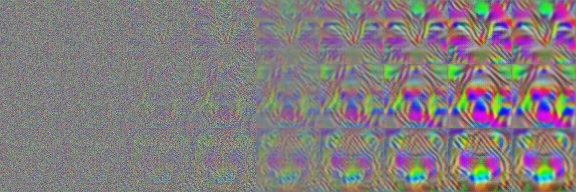
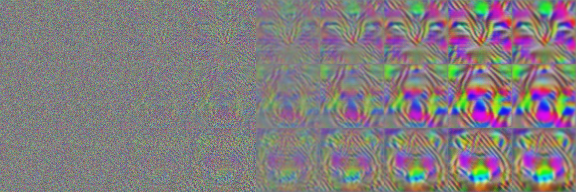
Flag anomalies on both sides and mark the blind spots

diff --git a/training/export.py b/training/export.py
@@ -237,6 +237,7 @@ def export_dream(cls_model, classes, device, steps=200, frames=8):
     but the result is still a psychedelic mess: knowing a cat is not drawing one.
     """
     torch.manual_seed(SEED)
+    rng = np.random.default_rng(SEED)
     # Snapshots spaced geometrically: most of the change happens in the first few steps.
     snap_at = (np.geomspace(1, steps, frames).round().astype(int) - 1).tolist()
     blur = torch.tensor([1., 2., 1.], device=device)
@@ -250,7 +251,7 @@ def export_dream(cls_model, classes, device, steps=200, frames=8):
         for step in range(steps):
             if step in snap_at:
                 shots.append(torch.sigmoid(p).detach())
-            dx, dy = np.random.randint(-2, 3, size=2)
+            dx, dy = rng.integers(-2, 3, size=2)
             x = torch.roll(torch.sigmoid(p), (int(dy), int(dx)), dims=(2, 3))  # jitter
             loss = -cls_model(x)[0, c]
             opt.zero_grad()
@@ -303,11 +304,26 @@ def export_latent_maps(loaded, map_cats, device):
 
 
 def export_anomaly(ae64, held_out, device):
-    """How badly ae_64 rebuilds normal (held-out) cats; anything far above this is 'not a cat'."""
+    """How well ae_64 rebuilds normal (held-out) cats. Returns the (low, high) flag thresholds.
+
+    Two-sided: an error above the 95th percentile means "I can't rebuild this, it's not a cat",
+    and one below the 1st percentile means "suspiciously easy": flat or blurry images
+    are simpler than any real cat face.
+    """
     errors = recon_errors(ae64, to_tensor(held_out, device)).cpu().numpy()
+    p1, p95, p99 = (float(np.percentile(errors, q)) for q in (1, 95, 99))
     write_json(OUT / "anomaly.json", {"model": "ae_64", "errors": rounded(errors, 2),
-                                      "p95": float(np.percentile(errors, 95)),
-                                      "p99": float(np.percentile(errors, 99))})
+                                      "p1": p1, "p95": p95, "p99": p99,
+                                      "flag": "error < p1 (too easy) or error > p95 (can't rebuild)"})
+    return p1, p95
+
+
+def verdict(error, low, high):
+    if error > high:
+        return "anomaly: can't rebuild it"
+    if error < low:
+        return "anomaly: suspiciously easy"
+    return "passes as a cat"
 
 
 def not_cats(held_out):
@@ -329,12 +345,22 @@ def not_cats(held_out):
     return list(images), np.stack([np.asarray(v, dtype=np.uint8) for v in images.values()])
 
 
-def export_not_cats(held_out, ae64, device):
+def export_not_cats(held_out, ae64, thresholds, device):
+    """The not-cats, ae_64's error on each, and its verdict.
+
+    Any that pass as a cat are the honest blind spot: an upside-down or colour-inverted
+    cat still has fur, eyes and a face-like layout, so ae_64 rebuilds it about as well
+    as a normal cat. Low reconstruction error doesn't mean "the right kind of cat".
+    """
     labels, images = not_cats(held_out)
     meta = save_sprite(images, OUT / "not_cats.png", cols=6)
-    errors = recon_errors(ae64, to_tensor(images, device)).cpu().numpy() if ae64 else None
-    write_json(OUT / "not_cats.json", {**meta, "labels": labels,
-                                       "ae_64_errors": None if errors is None else rounded(errors, 2)})
+    out = {**meta, "labels": labels}
+    if ae64 is not None:
+        errors = recon_errors(ae64, to_tensor(images, device)).cpu().numpy()
+        out["ae_64_errors"] = rounded(errors, 2)
+        out["verdicts"] = [verdict(e, *thresholds) for e in errors]
+        out["blind_spots"] = [l for l, v in zip(labels, out["verdicts"]) if v == "passes as a cat"]
+    write_json(OUT / "not_cats.json", out)
 
 
 def export_sparse_codes(loaded, held_out, device):
@@ -394,6 +420,8 @@ def write_file_list():
 
 def main():
     device = torch.device("cuda" if torch.cuda.is_available() else "cpu")
+    torch.backends.cudnn.deterministic = True  # same files every time we export
+    torch.backends.cudnn.benchmark = False
     MODELS.mkdir(parents=True, exist_ok=True)
     OUT.mkdir(parents=True, exist_ok=True)
 
@@ -405,9 +433,8 @@ def main():
     print("exporting demo data ...")
     export_showcase(held_out)
     export_pca(train_cats, held_out, device)
-    export_not_cats(held_out, model("ae_64"), device)
-    if "ae_64" in loaded:
-        export_anomaly(model("ae_64"), held_out, device)
+    thresholds = export_anomaly(model("ae_64"), held_out, device) if "ae_64" in loaded else None
+    export_not_cats(held_out, model("ae_64"), thresholds, device)
     if "cnn_cls" in loaded:
         export_animals(train_cats)
         export_dream(model("cnn_cls"), loaded["cnn_cls"][2]["classes"], device)

diff --git a/SPEC.md b/SPEC.md
@@ -46,7 +46,7 @@ Part 2: Autoencoders
 5. Bottleneck: live slider over ae_2/16/64/256 on a held-out cat, showing 12,288 numbers -> k numbers and the compression ratio. Pick any of 8 held-out cats.
 6. Reconstruction loss: input, output and a pixel heatmap of squared error; live MSE and BCE values; a counter "labels used: 0".
 7. PCA vs autoencoder: the same cats reconstructed by PCA and by the AE at the same k, side by side. Callout: a linear AE with MSE learns the PCA subspace.
-8. Uses: four cards (compression, denoising, feature extraction, anomaly detection). The anomaly card is live: draw on a cat or pick a "not a cat" image; reconstruction error is placed on a histogram of normal cats and flags anomalies.
+8. Uses: four cards (compression, denoising, feature extraction, anomaly detection). The anomaly card is live: draw on a cat or pick a "not a cat" image; reconstruction error is placed on a histogram of normal cats and flags anomalies on both sides: above the 95th percentile ("can't rebuild it": noise, stripes) and below the 1st percentile ("suspiciously easy": the beige wall, the fur zoom). The upside-down and colour-inverted cats pass as normal cats; the card shows them as the honest blind spot (low reconstruction error means "looks like cat-ish fur and faces", not "a proper cat").
 Part 3: Other types of autoencoders
 9. Four tabs. Sparse: 1024 neurons as a 32x32 grid lighting up, with a penalty on/off toggle and "% of neurons on". Denoising: a noise slider, noisy input -> clean output. Contractive: a "jiggle" slider; bars show how far the code moves for ae_64 vs cae_64 (normalised by each model's code spread). Convolutional: recap of the architecture we have been using.
 Part 4: Why autoencoders can't generate
